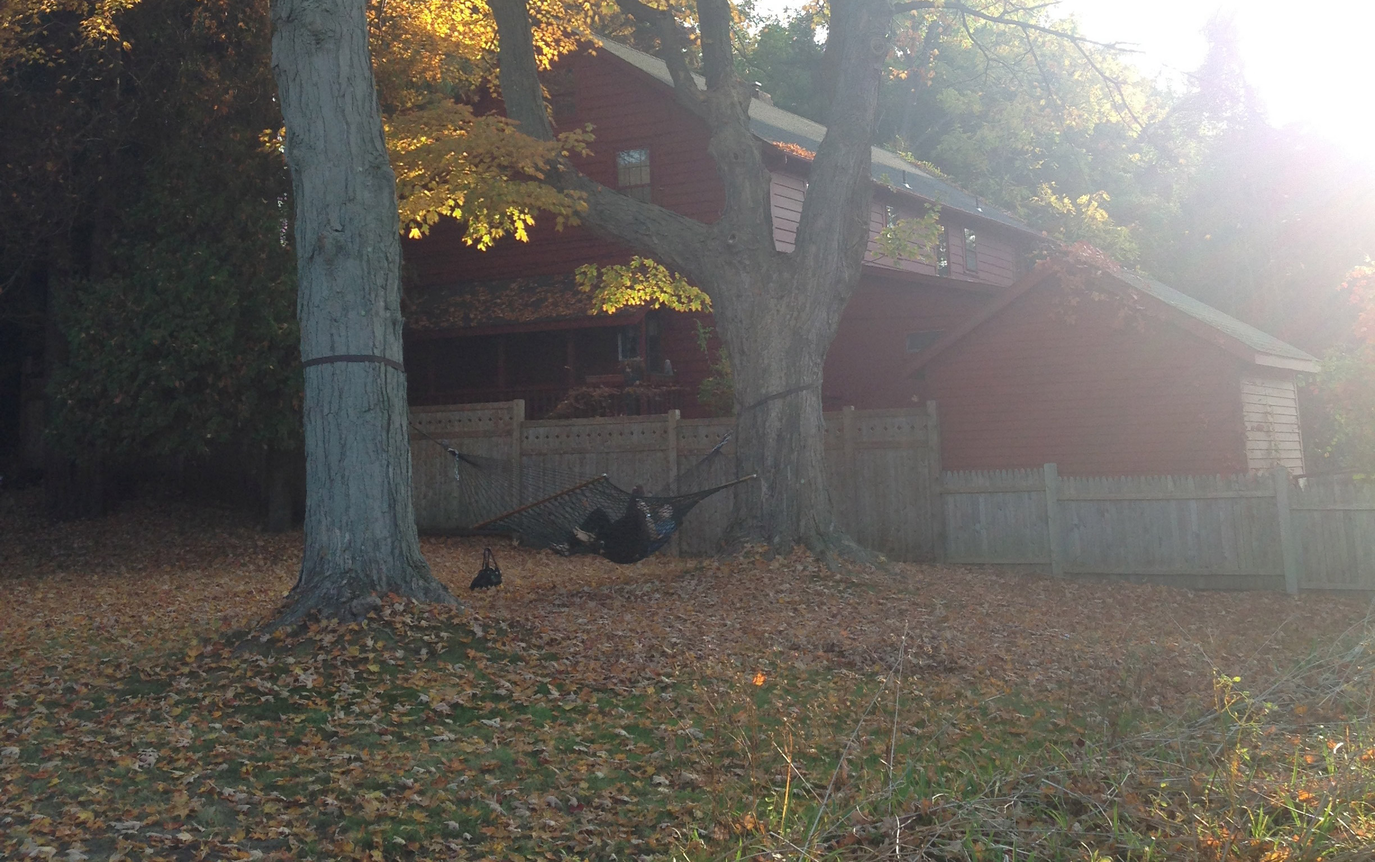
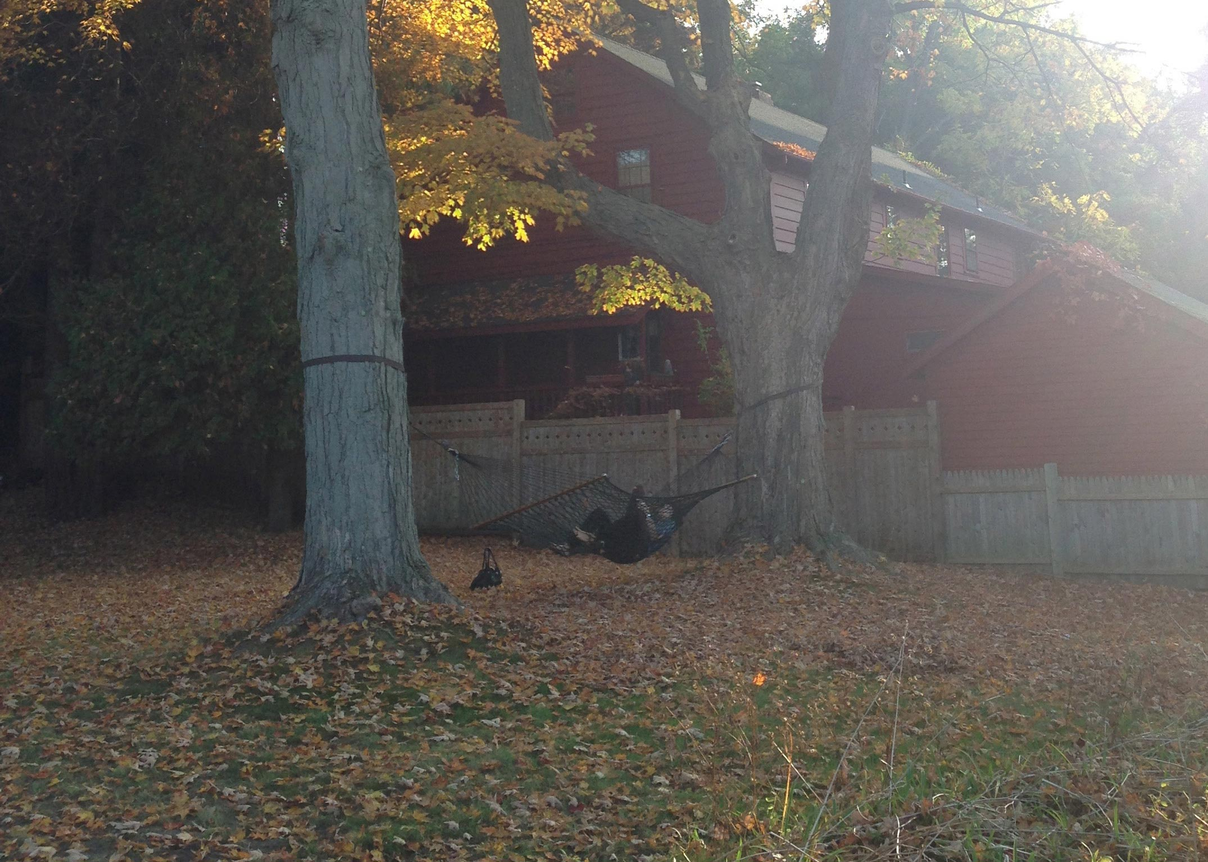
slimmed down filesize for background image

diff --git a/stylesheets/main.css b/stylesheets/main.css
@@ -15,8 +15,7 @@ body {
   width: 100%;
   height: 100%;
   background: url('/images/backyard-fall.jpg') no-repeat;
-  background-size: 120%;
-  background-position: 20% 10%;
+  background-size: 100%;
   top: 0;
   left: 0;
   -webkit-filter: saturate(1.5);
